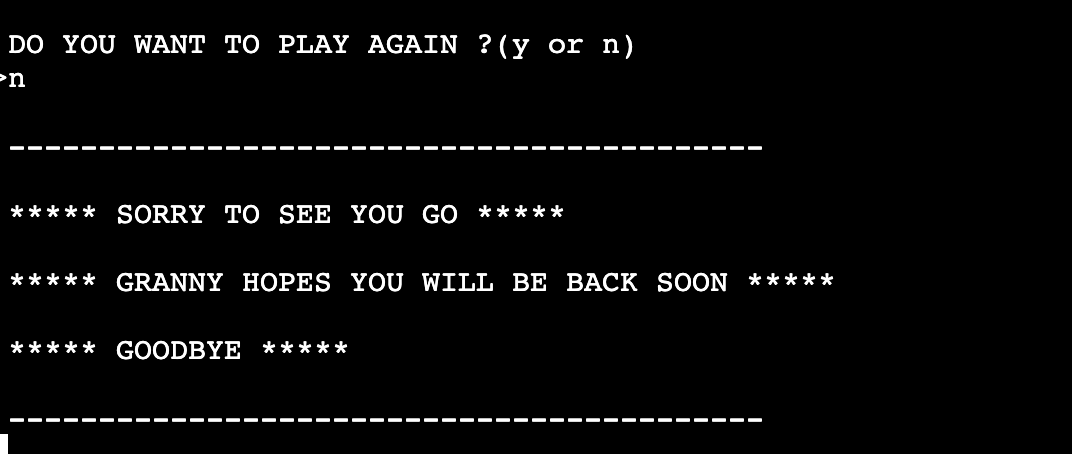
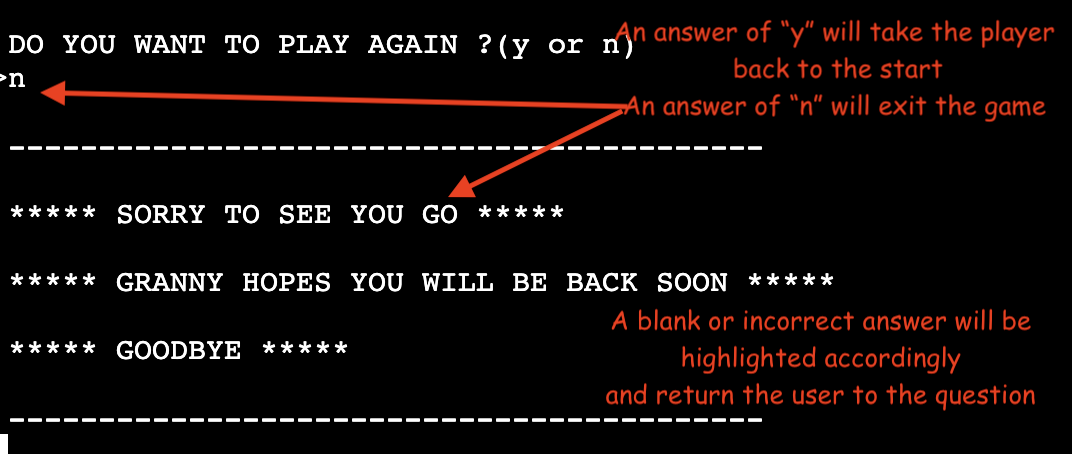
Update img p_playagain_n in readme.md

diff --git a/README.md b/README.md
@@ -108,7 +108,8 @@ The flowchart created on
 
     - When the game concludes as a win or loss , the player is asked if they will play again.
     - An affirmative answer (y) will take them back to the start of the game.
-    - If not , the player is told that " Granny hopes to see them back soon. Goodbye" and then exits the game.
+    - A blank or incorrect response will be highlighted and the play returned to the question.
+    - An answer of No (n) will tell the player that " Granny hopes to see them back soon. Goodbye" and then EXITS the game.
     
 <h2 align="center"><img src="readme/images/f_play.png" alt="Mock screenshot" width="500" height="300"></h2>
 
